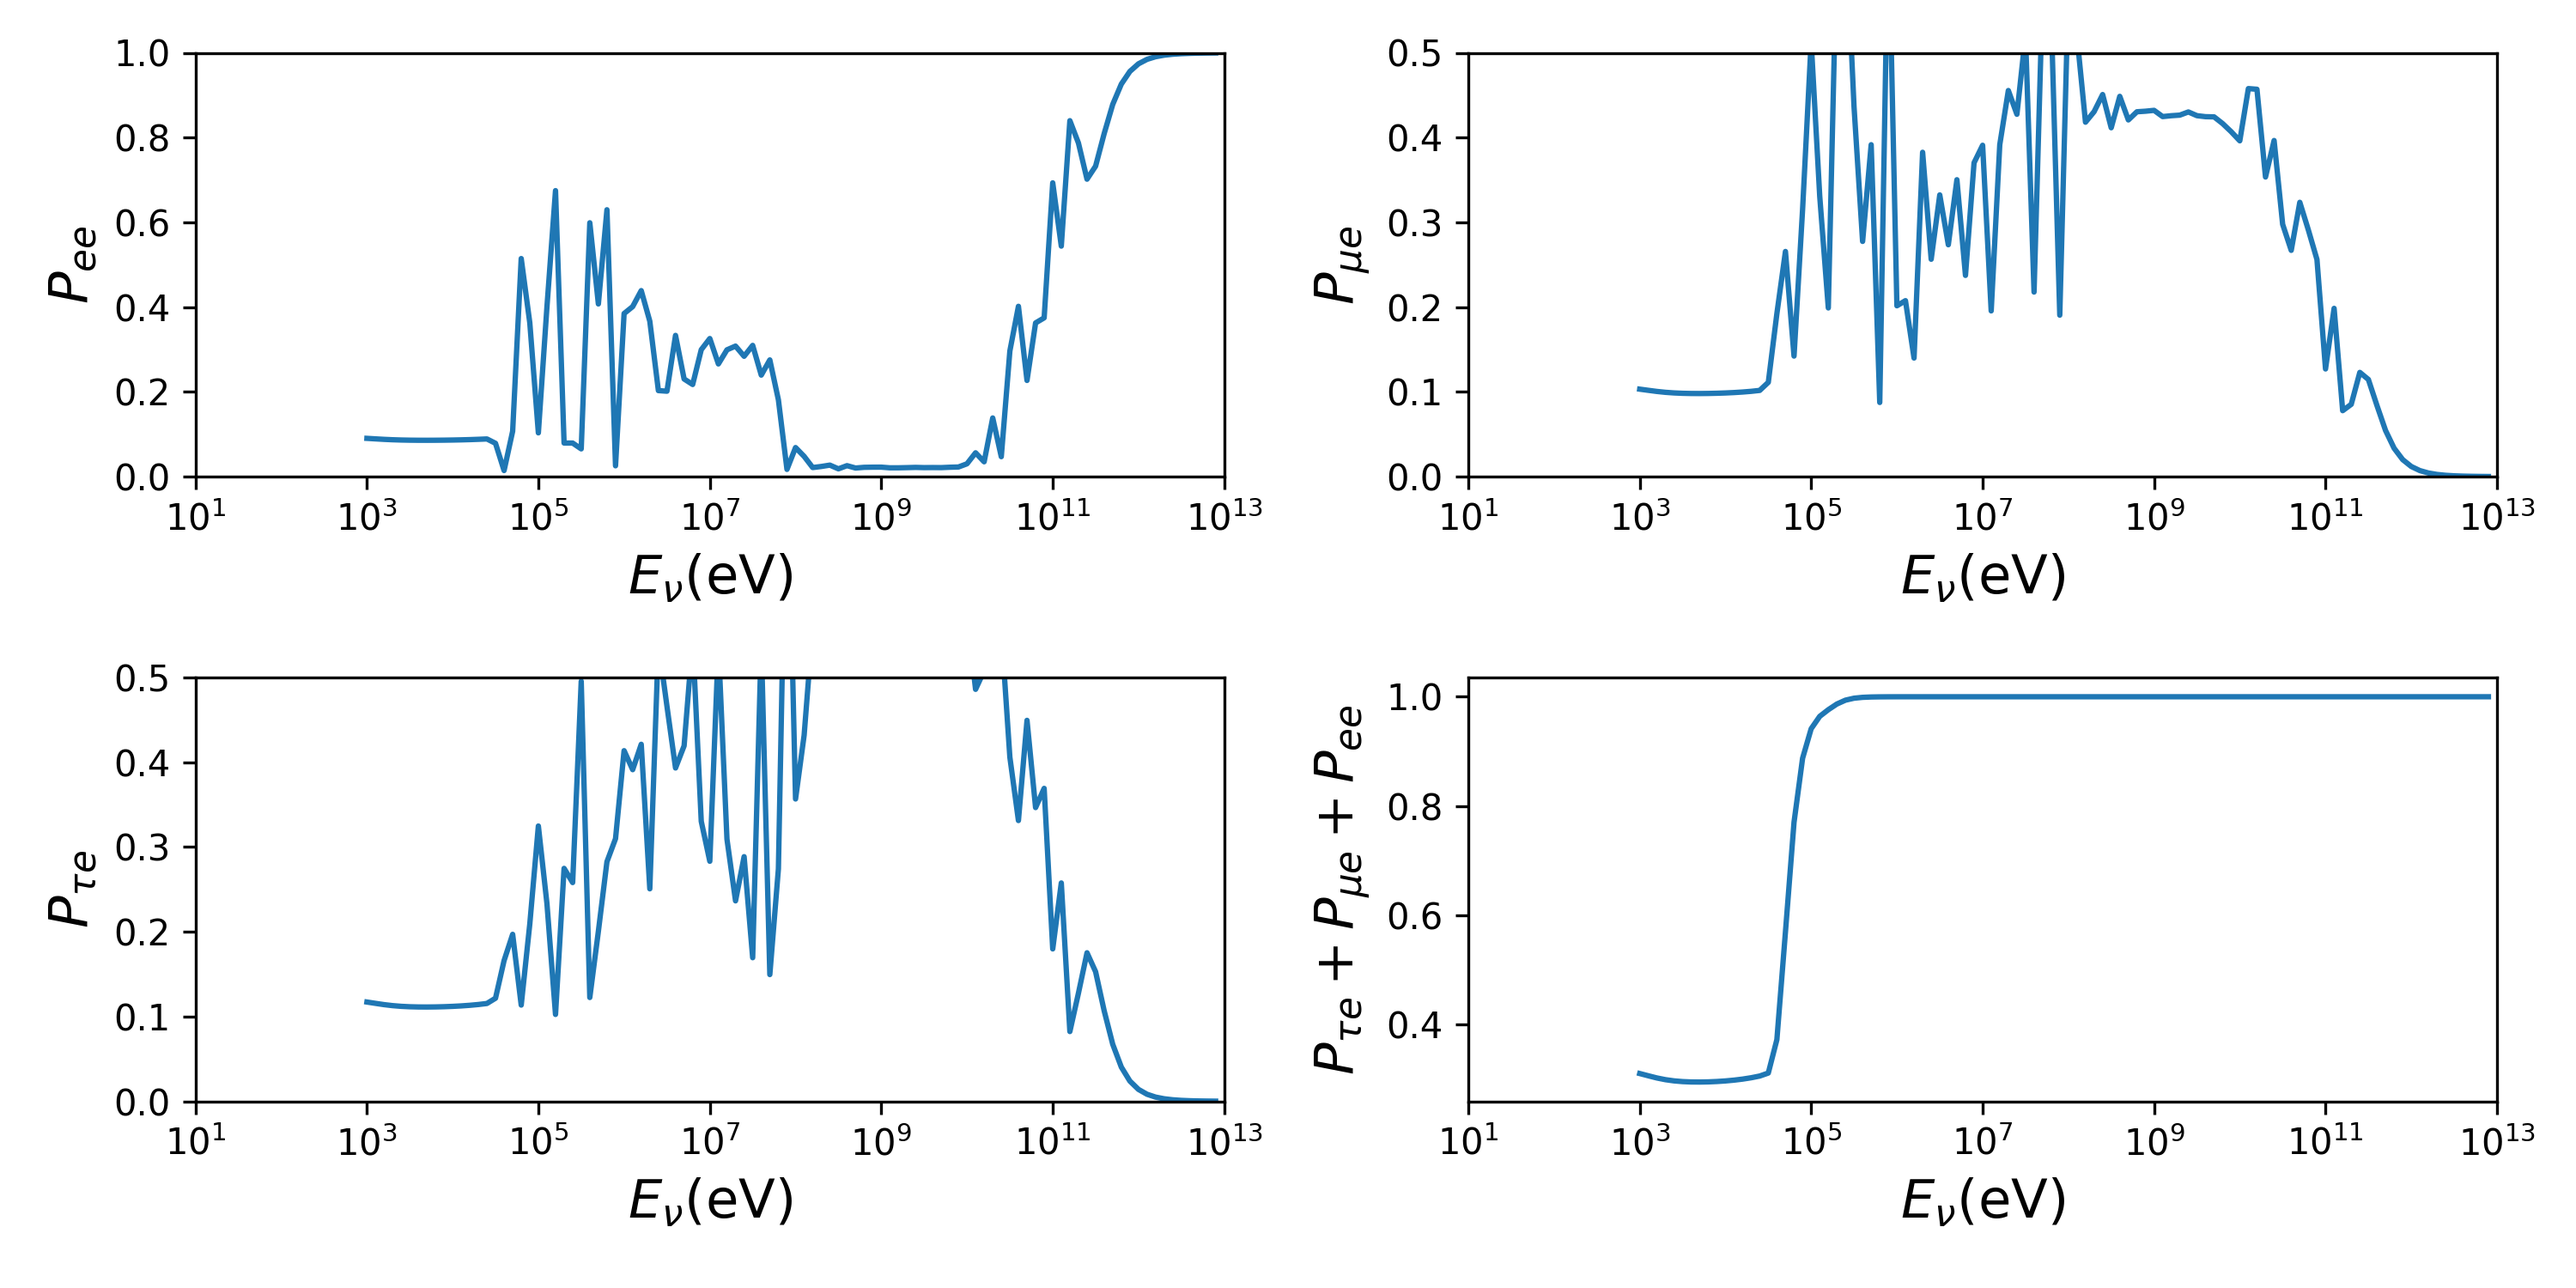
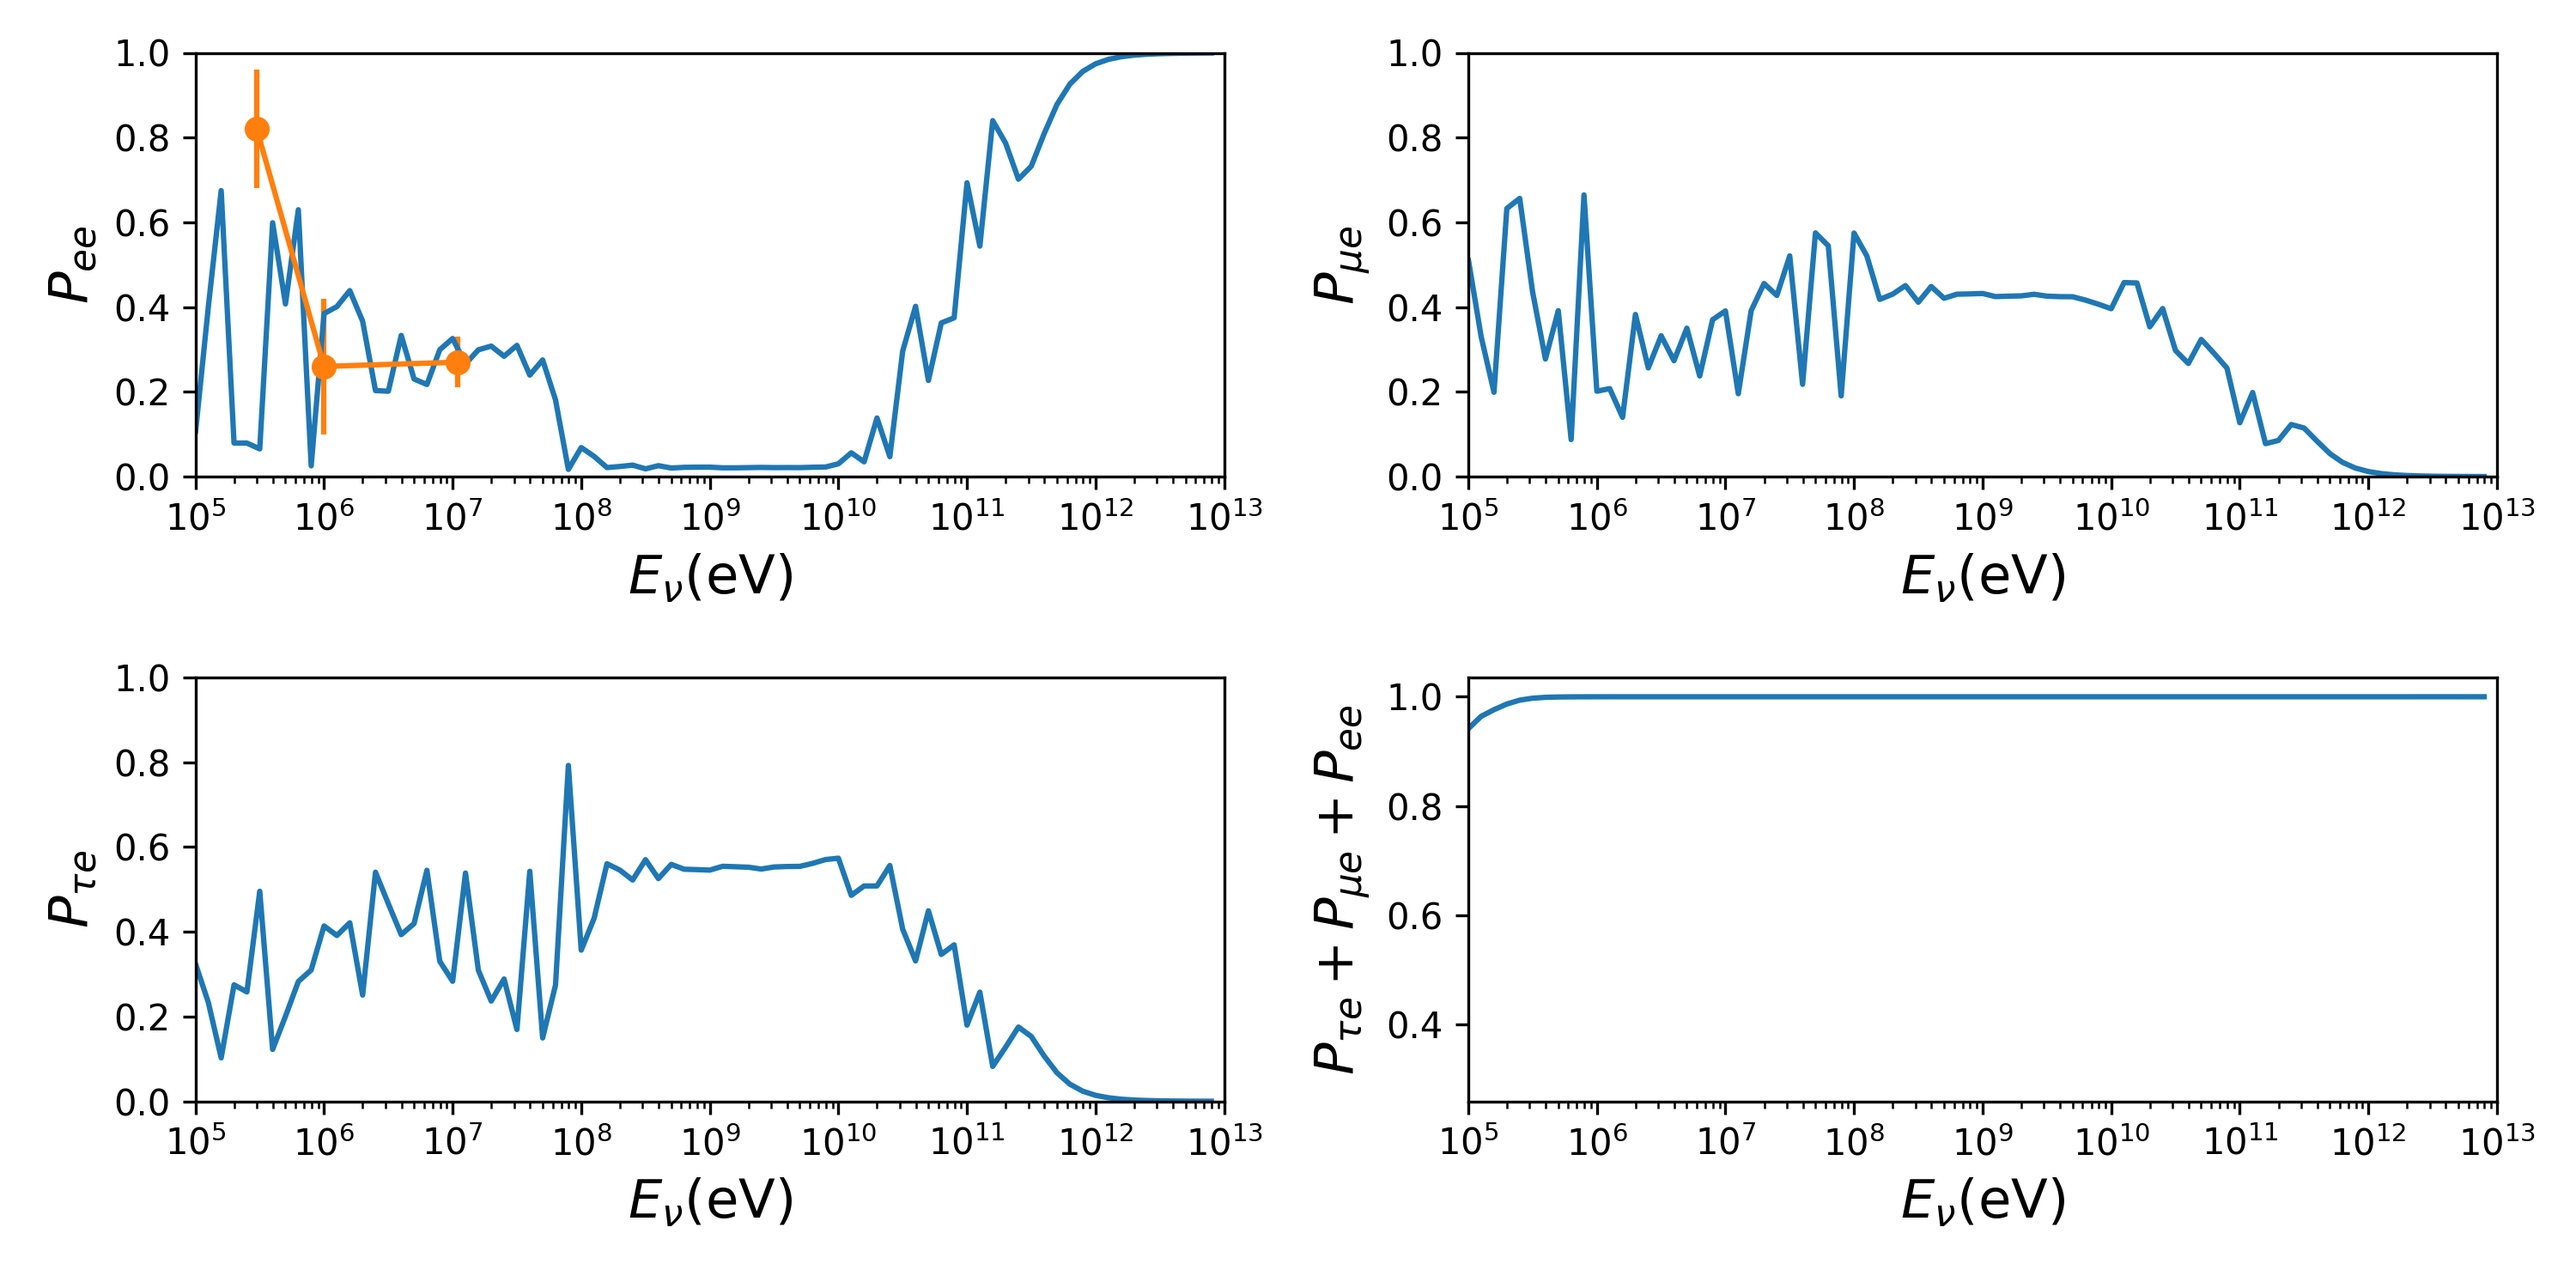
A usable graph on solar neutrino oscillations

diff --git a/uandino_v02/results/sun_allE-real_params_100MS.285742.clustermaster.uniandes.edu.co/plotTheThing.py b/uandino_v02/results/sun_allE-real_params_100MS.285742.clustermaster.uniandes.edu.co/plotTheThing.py
@@ -20,15 +20,15 @@ ax[0, 1].set_ylabel('$P_{\mu e}$', fontsize=15)
 ax[1, 0].set_ylabel('$P_{\\tau e}$', fontsize=15)
 ax[1, 1].set_ylabel('$P_{\\tau e}+P_{\mu e}+ P_{e e}$', fontsize=15)
 #ax[1, 1].set_ylim(1-0.01, 1+0.01)
-
+ax[0,0].errorbar([0.3e6, 1e6, 1.1e7],[0.82, 0.26, 0.27], yerr=[0.14, 0.16, 0.06], marker='o')
 for i in range(2):
     for k in range(2):
         ax[i,k].set_xscale('log')
         ax[i,k].set_xlabel('$E_{\\nu}$(eV)', fontsize=15)
-        ax[i,k].set_xlim(1e1, 1e13)
+        ax[i,k].set_xlim(1e5, 1e13)
 #ax[1,1].set_ylim(1-0.00001, 1+0.00001)
-ax[0,1].set_ylim(0,0.5)
-ax[1,0].set_ylim(0,0.5)
+ax[0,1].set_ylim(0,1)
+ax[1,0].set_ylim(0,1)
 ax[0,0].set_ylim(0,1)
 
 plt.tight_layout()
